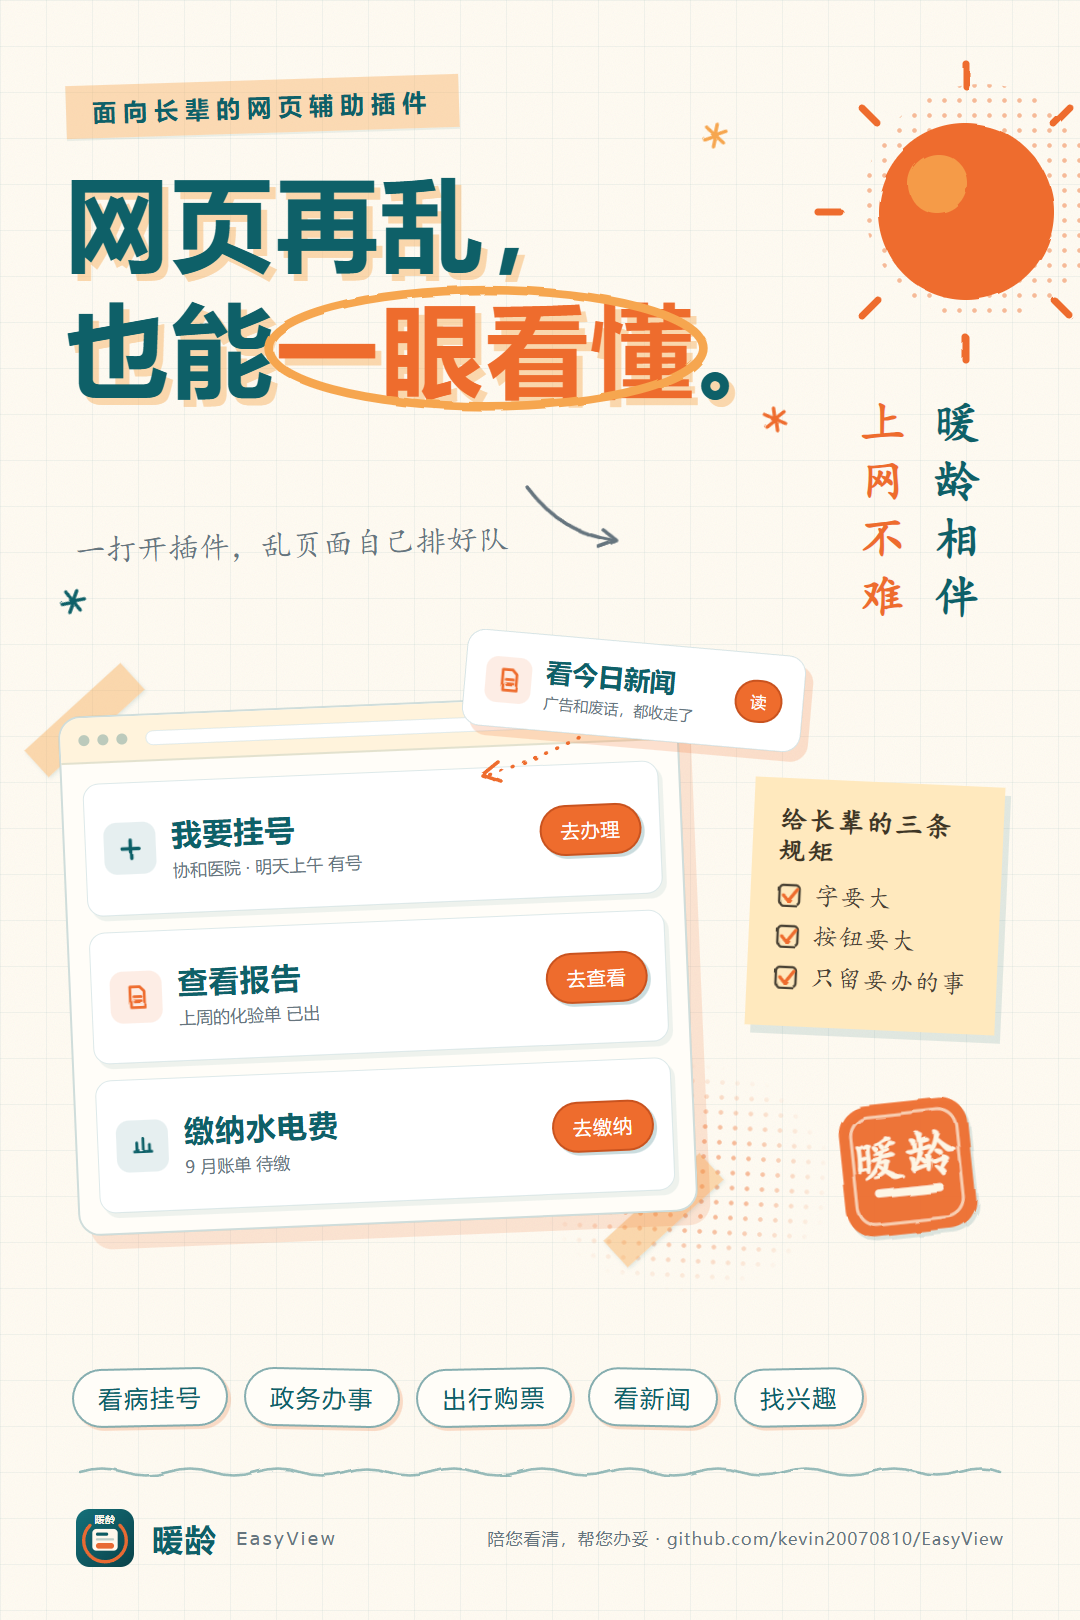
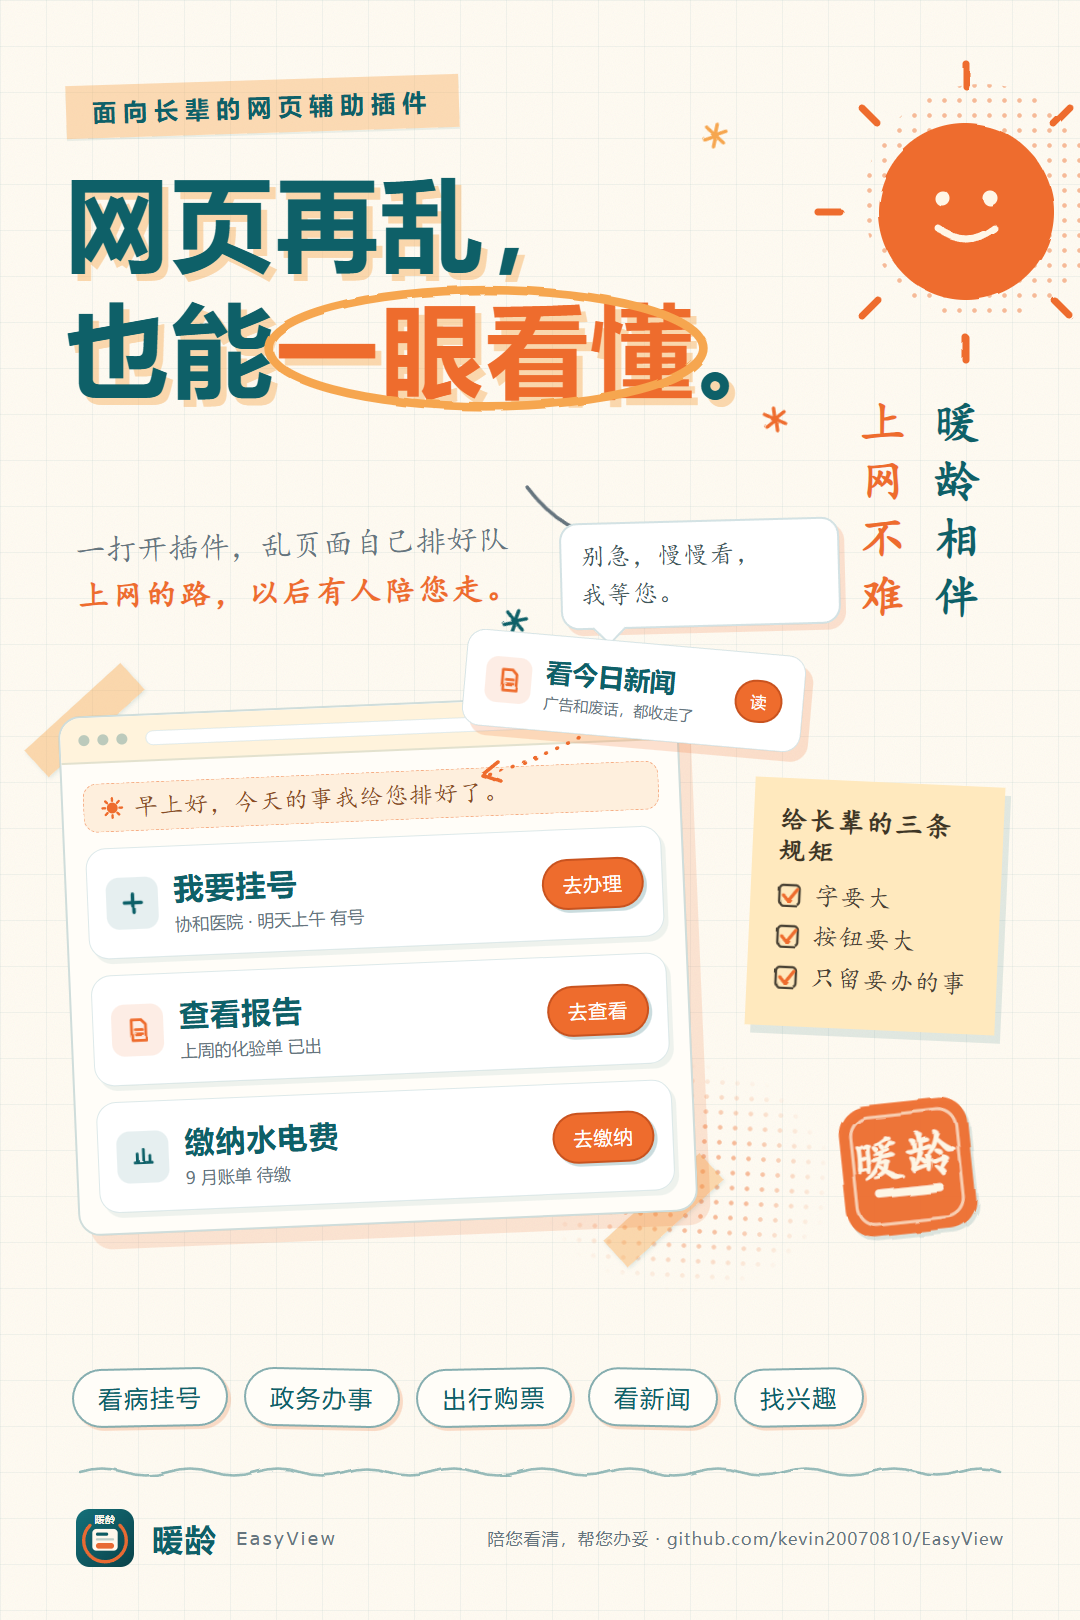
[B] brand v3.1: empathy layer - smiling sun, greeting bar, speech bubble, theme line

diff --git a/brand/src/slide-v3.html b/brand/src/slide-v3.html
@@ -16,6 +16,8 @@ body{font-family:"Microsoft YaHei","Noto Sans SC",sans-serif}
 .kw{position:relative;display:inline-block}
 .kwring{position:absolute;left:-16px;top:-14px;width:calc(100% + 32px);height:calc(100% + 30px);overflow:visible;pointer-events:none}
 .hand{position:absolute;left:116px;top:452px;transform:rotate(-1.6deg);font-family:KaiTi,STKaiti,serif;font-size:31px;color:var(--muted);display:flex;align-items:flex-end;gap:10px}
+.bubble{position:absolute;left:560px;top:520px;width:280px;background:#fff;border:2px solid rgba(14,96,104,.18);border-radius:18px;padding:14px 18px;transform:rotate(-1.5deg);box-shadow:5px 6px 0 rgba(238,108,45,.18);font-family:KaiTi,STKaiti,serif;font-size:25px;line-height:1.5;color:#3E565A;letter-spacing:1px}
+.bubble::after{content:"";position:absolute;left:34px;bottom:-13px;width:22px;height:22px;background:#fff;border-right:2px solid rgba(14,96,104,.18);border-bottom:2px solid rgba(14,96,104,.18);transform:rotate(45deg)}
 .couplet{position:absolute;right:92px;top:352px;writing-mode:vertical-rl;font-family:KaiTi,STKaiti,serif;font-size:46px;letter-spacing:12px;line-height:1.62;color:var(--ink);font-weight:700}
 .couplet em{font-style:normal;color:var(--warm)}
 .stage{position:absolute;left:1000px;top:150px;width:820px;height:640px}
@@ -26,7 +28,9 @@ body{font-family:"Microsoft YaHei","Noto Sans SC",sans-serif}
 .frame .bar i{width:11px;height:11px;border-radius:50%;background:rgba(14,96,104,.28)}
 .frame .bar u{flex:1;height:15px;border-radius:8px;background:#fff;margin-left:10px;text-decoration:none;border:1.5px solid rgba(14,96,104,.12)}
 .frame .body{padding:20px;display:flex;flex-direction:column;gap:16px;height:calc(100% - 46px)}
-.card{background:#fff;border:1.6px solid rgba(14,96,104,.14);border-radius:16px;padding:16px 18px;display:flex;align-items:center;gap:16px;box-shadow:4px 5px 0 rgba(14,96,104,.07);flex:1}
+.frame .hi{background:rgba(246,166,79,.16);border:1.6px dashed rgba(238,108,45,.5);border-radius:14px;padding:10px 16px;font-family:KaiTi,STKaiti,serif;font-size:24px;color:#8A4A22;letter-spacing:1px;display:flex;align-items:center;gap:10px}
+.frame .hi svg{flex:none}
+.card{background:#fff;border:1.6px solid rgba(14,96,104,.14);border-radius:20px;padding:16px 18px;display:flex;align-items:center;gap:16px;box-shadow:4px 5px 0 rgba(14,96,104,.07);flex:1}
 .card .ic{width:52px;height:52px;border-radius:13px;flex:none;display:flex;align-items:center;justify-content:center}
 .card .tx{flex:1}.card .tx b{display:block;font-size:30px;color:var(--ink);letter-spacing:1px}
 .card .tx s{display:block;text-decoration:none;font-size:17px;color:var(--muted);margin-top:5px}
@@ -52,6 +56,7 @@ body{font-family:"Microsoft YaHei","Noto Sans SC",sans-serif}
 .foot b{font-size:31px;color:var(--ink);letter-spacing:2px}
 .foot i{font-family:Verdana,sans-serif;font-style:normal;font-size:18px;color:var(--muted);letter-spacing:2px}
 .foot s{text-decoration:none;margin-left:auto;font-size:17px;color:var(--muted);letter-spacing:1px}
+.bubble{left:620px;top:428px}
 .tagline{position:absolute;left:116px;top:560px;font-family:KaiTi,STKaiti,serif;font-size:36px;letter-spacing:6px;color:var(--warm);font-weight:700}
 .tagline i{font-style:normal;color:rgba(14,96,104,.4);padding:0 12px}
 .wavy{width:1700px}</style></head><body>
@@ -66,14 +71,14 @@ body{font-family:"Microsoft YaHei","Noto Sans SC",sans-serif}
   <svg class="sun" width="320" height="320" viewBox="0 0 320 320" xmlns="http://www.w3.org/2000/svg">
 <circle cx="176" cy="150" r="118" fill="url(#dots)"/>
 <circle cx="160" cy="160" r="88" fill="#EE6C2D" filter="url(#rough2)"/>
-<circle cx="132" cy="132" r="30" fill="#F6A64F" opacity=".8" filter="url(#rough2)"/>
+<g filter="url(#rough)"><circle cx="136" cy="146" r="7.5" fill="#FFF6E6"/><circle cx="184" cy="146" r="7.5" fill="#FFF6E6"/><path d="M132 176 Q160 198 188 176" fill="none" stroke="#FFF6E6" stroke-width="7" stroke-linecap="round"/></g>
 <g stroke="#EE6C2D" stroke-width="7" stroke-linecap="round" filter="url(#rough)">
 <path d="M160 34v-22"/><path d="M248 72l16-16"/><path d="M286 160h24"/><path d="M248 248l16 16"/><path d="M160 286v22"/><path d="M72 248l-16 16"/><path d="M34 160H12"/><path d="M72 72L56 56"/></g></svg>
   <svg class="star" style="left:930px;top:110px;transform:rotate(12deg)" width="30" height="30" viewBox="0 0 30 30"><g stroke="#F6A64F" stroke-width="3.4" stroke-linecap="round" filter="url(#rough)"><path d="M15 4v22M5 9l20 12M25 9L5 21"/></g></svg><svg class="star" style="left:60px;top:620px;transform:rotate(18deg)" width="30" height="30" viewBox="0 0 30 30"><g stroke="#0E6068" stroke-width="3.4" stroke-linecap="round" filter="url(#rough)"><path d="M15 4v22M5 9l20 12M25 9L5 21"/></g></svg><svg class="star" style="left:1755px;top:300px;transform:rotate(-8deg)" width="30" height="30" viewBox="0 0 30 30"><g stroke="#EE6C2D" stroke-width="3.4" stroke-linecap="round" filter="url(#rough)"><path d="M15 4v22M5 9l20 12M25 9L5 21"/></g></svg>
   <div class="tape">面向长辈的网页辅助插件 · 48 小时黑客松</div>
   <div class="h1w"><h1 class="ghost">网页再乱，<br>也能一眼看懂。</h1><h1 class="real">网页再乱，<br>也能<em><span class="kw">一眼看懂<svg class="kwring" viewBox="0 0 420 130" xmlns="http://www.w3.org/2000/svg"><ellipse cx="210" cy="65" rx="202" ry="54" fill="none" stroke="#F6A64F" stroke-width="8" filter="url(#rough)"/></svg></span></em>。</h1></div>
   <div class="hand">一打开插件，乱页面自己排好队<svg width="110" height="74" viewBox="0 0 110 74"><path d="M10 6 C 34 40, 62 56, 96 62" fill="none" stroke="#66757E" stroke-width="3.6" stroke-linecap="round" filter="url(#rough)"/><path d="M84 50 L98 62 L80 68" fill="none" stroke="#66757E" stroke-width="3.6" stroke-linecap="round" stroke-linejoin="round" filter="url(#rough)"/></svg></div>
-  <div class="tagline">暖龄相伴<i>·</i>上网不难<i>·</i>陪您看清，帮您办妥</div>
+  <div class="tagline">暖龄相伴<i>·</i>上网不难<i>·</i>有人陪您走</div>
   <div class="chips"><span>看病挂号</span><span>政务办事</span><span>出行购票</span><span>看新闻</span><span>找兴趣</span></div>
   <div class="stage">
     <svg class="halftone" viewBox="0 0 300 230"><rect width="300" height="230" fill="url(#dots)"/></svg>
@@ -82,7 +87,7 @@ body{font-family:"Microsoft YaHei","Noto Sans SC",sans-serif}
     <div class="tapebit" style="right:-30px;bottom:-16px;transform:rotate(-40deg)"></div>
     <div class="frame">
       <div class="bar"><i></i><i></i><i></i><u></u></div>
-      <div class="body"><div class="card"><div class="ic" style="background:rgba(14,96,104,.10)"><svg width="27" height="27" viewBox="0 0 24 24"><path d="M12 4.4v15.4M4.6 12h15" stroke="#0E6068" stroke-width="3.2" stroke-linecap="round" filter="url(#rough)"/></svg></div><div class="tx"><b>我要挂号</b><s>协和医院 · 明天上午 有号</s></div><div class="go">去办理</div></div><div class="card"><div class="ic" style="background:rgba(238,108,45,.12)"><svg width="27" height="27" viewBox="0 0 24 24"><path d="M6.2 3.2h8.6l4 4v13.6H6.2z M9.4 12h6.6M9.4 15.8h6.6" fill="none" stroke="#EE6C2D" stroke-width="2.5" stroke-linecap="round" stroke-linejoin="round" filter="url(#rough)"/></svg></div><div class="tx"><b>查看报告</b><s>上周的化验单 已出</s></div><div class="go">去查看</div></div><div class="card"><div class="ic" style="background:rgba(14,96,104,.10)"><svg width="27" height="27" viewBox="0 0 24 24"><path d="M4.4 17.4h15.4M6.6 17.4V9.4m5.6 8V5.6m5.6 11.8v-6.2" fill="none" stroke="#0E6068" stroke-width="2.5" stroke-linecap="round" filter="url(#rough)"/></svg></div><div class="tx"><b>缴纳水电费</b><s>9 月账单 待缴</s></div><div class="go">去缴纳</div></div></div>
+      <div class="body"><div class="hi"><svg width="24" height="24" viewBox="0 0 24 24"><circle cx="12" cy="12" r="5.4" fill="#EE6C2D"/><g stroke="#EE6C2D" stroke-width="2.4" stroke-linecap="round"><path d="M12 2.2v2.6M12 19.2v2.6M2.2 12h2.6M19.2 12h2.6M5.2 5.2l1.9 1.9M16.9 16.9l1.9 1.9M18.8 5.2l-1.9 1.9M7.1 16.9l-1.9 1.9"/></g></svg>早上好，今天的事我给您排好了。</div><div class="card"><div class="ic" style="background:rgba(14,96,104,.10)"><svg width="27" height="27" viewBox="0 0 24 24"><path d="M12 4.4v15.4M4.6 12h15" stroke="#0E6068" stroke-width="3.2" stroke-linecap="round" filter="url(#rough)"/></svg></div><div class="tx"><b>我要挂号</b><s>协和医院 · 明天上午 有号</s></div><div class="go">去办理</div></div><div class="card"><div class="ic" style="background:rgba(238,108,45,.12)"><svg width="27" height="27" viewBox="0 0 24 24"><path d="M6.2 3.2h8.6l4 4v13.6H6.2z M9.4 12h6.6M9.4 15.8h6.6" fill="none" stroke="#EE6C2D" stroke-width="2.5" stroke-linecap="round" stroke-linejoin="round" filter="url(#rough)"/></svg></div><div class="tx"><b>查看报告</b><s>上周的化验单 已出</s></div><div class="go">去查看</div></div><div class="card"><div class="ic" style="background:rgba(14,96,104,.10)"><svg width="27" height="27" viewBox="0 0 24 24"><path d="M4.4 17.4h15.4M6.6 17.4V9.4m5.6 8V5.6m5.6 11.8v-6.2" fill="none" stroke="#0E6068" stroke-width="2.5" stroke-linecap="round" filter="url(#rough)"/></svg></div><div class="tx"><b>缴纳水电费</b><s>9 月账单 待缴</s></div><div class="go">去缴纳</div></div></div>
     </div>
     </div>
     
@@ -90,6 +95,7 @@ body{font-family:"Microsoft YaHei","Noto Sans SC",sans-serif}
     <div class="pop"><div class="ic"><svg width="27" height="27" viewBox="0 0 24 24"><path d="M6.2 3.2h8.6l4 4v13.6H6.2z M9.4 12h6.6M9.4 15.8h6.6" fill="none" stroke="#EE6C2D" stroke-width="2.5" stroke-linecap="round" stroke-linejoin="round" filter="url(#rough)"/></svg></div><div><b>看今日新闻</b><s>广告和废话，都收走了</s></div><div class="go">读</div></div>
   </div>
 <div class="sticky"><b>给长辈的三条规矩</b><div class="rows"><div class="row"><svg width="26" height="26" viewBox="0 0 26 26"><rect x="3" y="3" width="20" height="20" rx="4" fill="none" stroke="#4A4234" stroke-width="2.4" filter="url(#rough)"/><path d="M7 13l5 6 9-12" fill="none" stroke="#EE6C2D" stroke-width="3.4" stroke-linecap="round" stroke-linejoin="round" filter="url(#rough)"/></svg>字要大</div><div class="row"><svg width="26" height="26" viewBox="0 0 26 26"><rect x="3" y="3" width="20" height="20" rx="4" fill="none" stroke="#4A4234" stroke-width="2.4" filter="url(#rough)"/><path d="M7 13l5 6 9-12" fill="none" stroke="#EE6C2D" stroke-width="3.4" stroke-linecap="round" stroke-linejoin="round" filter="url(#rough)"/></svg>按钮要大</div><div class="row"><svg width="26" height="26" viewBox="0 0 26 26"><rect x="3" y="3" width="20" height="20" rx="4" fill="none" stroke="#4A4234" stroke-width="2.4" filter="url(#rough)"/><path d="M7 13l5 6 9-12" fill="none" stroke="#EE6C2D" stroke-width="3.4" stroke-linecap="round" stroke-linejoin="round" filter="url(#rough)"/></svg>只留要办的事</div></div></div>
+  <div class="bubble">别急，慢慢看，<br>我等您。</div>
   <div class="couplet">暖龄相伴<br><em>上网不难</em></div>
   <div class="seal"><svg viewBox="0 0 128 128" width="140" height="140" style="transform:rotate(-6deg)" xmlns="http://www.w3.org/2000/svg">
 <g filter="url(#rough2)" opacity=".94">

diff --git a/brand/src/poster-v3.html b/brand/src/poster-v3.html
@@ -15,6 +15,9 @@ body{background:#E8E2D6;font-family:"Microsoft YaHei","Noto Sans SC",sans-serif}
 .kw{position:relative;display:inline-block}
 .kwring{position:absolute;left:-16px;top:-14px;width:calc(100% + 32px);height:calc(100% + 30px);overflow:visible;pointer-events:none}
 .hand{position:absolute;left:74px;top:486px;transform:rotate(-1.6deg);font-family:KaiTi,STKaiti,serif;font-size:31px;color:var(--muted);display:flex;align-items:flex-end;gap:10px}
+.hand2{position:absolute;left:78px;top:574px;font-family:KaiTi,STKaiti,serif;font-size:31px;color:var(--warm);letter-spacing:3px;font-weight:700;transform:rotate(-1deg)}
+.bubble{position:absolute;left:560px;top:520px;width:280px;background:#fff;border:2px solid rgba(14,96,104,.18);border-radius:18px;padding:14px 18px;transform:rotate(-1.5deg);box-shadow:5px 6px 0 rgba(238,108,45,.18);font-family:KaiTi,STKaiti,serif;font-size:25px;line-height:1.5;color:#3E565A;letter-spacing:1px}
+.bubble::after{content:"";position:absolute;left:34px;bottom:-13px;width:22px;height:22px;background:#fff;border-right:2px solid rgba(14,96,104,.18);border-bottom:2px solid rgba(14,96,104,.18);transform:rotate(45deg)}
 .couplet{position:absolute;right:86px;top:398px;writing-mode:vertical-rl;font-family:KaiTi,STKaiti,serif;font-size:46px;letter-spacing:12px;line-height:1.62;color:var(--ink);font-weight:700}
 .couplet em{font-style:normal;color:var(--warm)}
 .stage{position:absolute;left:44px;top:648px;width:760px;height:620px}
@@ -25,7 +28,9 @@ body{background:#E8E2D6;font-family:"Microsoft YaHei","Noto Sans SC",sans-serif}
 .frame .bar i{width:11px;height:11px;border-radius:50%;background:rgba(14,96,104,.28)}
 .frame .bar u{flex:1;height:15px;border-radius:8px;background:#fff;margin-left:10px;text-decoration:none;border:1.5px solid rgba(14,96,104,.12)}
 .frame .body{padding:20px;display:flex;flex-direction:column;gap:16px;height:calc(100% - 46px)}
-.card{background:#fff;border:1.6px solid rgba(14,96,104,.14);border-radius:16px;padding:16px 18px;display:flex;align-items:center;gap:16px;box-shadow:4px 5px 0 rgba(14,96,104,.07);flex:1}
+.frame .hi{background:rgba(246,166,79,.16);border:1.6px dashed rgba(238,108,45,.5);border-radius:14px;padding:10px 16px;font-family:KaiTi,STKaiti,serif;font-size:24px;color:#8A4A22;letter-spacing:1px;display:flex;align-items:center;gap:10px}
+.frame .hi svg{flex:none}
+.card{background:#fff;border:1.6px solid rgba(14,96,104,.14);border-radius:20px;padding:16px 18px;display:flex;align-items:center;gap:16px;box-shadow:4px 5px 0 rgba(14,96,104,.07);flex:1}
 .card .ic{width:52px;height:52px;border-radius:13px;flex:none;display:flex;align-items:center;justify-content:center}
 .card .tx{flex:1}.card .tx b{display:block;font-size:30px;color:var(--ink);letter-spacing:1px}
 .card .tx s{display:block;text-decoration:none;font-size:17px;color:var(--muted);margin-top:5px}
@@ -60,13 +65,15 @@ body{background:#E8E2D6;font-family:"Microsoft YaHei","Noto Sans SC",sans-serif}
   <svg class="sun" width="320" height="320" viewBox="0 0 320 320" xmlns="http://www.w3.org/2000/svg">
 <circle cx="176" cy="150" r="118" fill="url(#dots)"/>
 <circle cx="160" cy="160" r="88" fill="#EE6C2D" filter="url(#rough2)"/>
-<circle cx="132" cy="132" r="30" fill="#F6A64F" opacity=".8" filter="url(#rough2)"/>
+<g filter="url(#rough)"><circle cx="136" cy="146" r="7.5" fill="#FFF6E6"/><circle cx="184" cy="146" r="7.5" fill="#FFF6E6"/><path d="M132 176 Q160 198 188 176" fill="none" stroke="#FFF6E6" stroke-width="7" stroke-linecap="round"/></g>
 <g stroke="#EE6C2D" stroke-width="7" stroke-linecap="round" filter="url(#rough)">
 <path d="M160 34v-22"/><path d="M248 72l16-16"/><path d="M286 160h24"/><path d="M248 248l16 16"/><path d="M160 286v22"/><path d="M72 248l-16 16"/><path d="M34 160H12"/><path d="M72 72L56 56"/></g></svg>
-  <svg class="star" style="left:700px;top:120px;transform:rotate(12deg)" width="30" height="30" viewBox="0 0 30 30"><g stroke="#F6A64F" stroke-width="3.4" stroke-linecap="round" filter="url(#rough)"><path d="M15 4v22M5 9l20 12M25 9L5 21"/></g></svg><svg class="star" style="left:760px;top:404px;transform:rotate(-8deg)" width="30" height="30" viewBox="0 0 30 30"><g stroke="#EE6C2D" stroke-width="3.4" stroke-linecap="round" filter="url(#rough)"><path d="M15 4v22M5 9l20 12M25 9L5 21"/></g></svg><svg class="star" style="left:58px;top:586px;transform:rotate(20deg)" width="30" height="30" viewBox="0 0 30 30"><g stroke="#0E6068" stroke-width="3.4" stroke-linecap="round" filter="url(#rough)"><path d="M15 4v22M5 9l20 12M25 9L5 21"/></g></svg>
+  <svg class="star" style="left:700px;top:120px;transform:rotate(12deg)" width="30" height="30" viewBox="0 0 30 30"><g stroke="#F6A64F" stroke-width="3.4" stroke-linecap="round" filter="url(#rough)"><path d="M15 4v22M5 9l20 12M25 9L5 21"/></g></svg><svg class="star" style="left:760px;top:404px;transform:rotate(-8deg)" width="30" height="30" viewBox="0 0 30 30"><g stroke="#EE6C2D" stroke-width="3.4" stroke-linecap="round" filter="url(#rough)"><path d="M15 4v22M5 9l20 12M25 9L5 21"/></g></svg><svg class="star" style="left:500px;top:606px;transform:rotate(20deg)" width="30" height="30" viewBox="0 0 30 30"><g stroke="#0E6068" stroke-width="3.4" stroke-linecap="round" filter="url(#rough)"><path d="M15 4v22M5 9l20 12M25 9L5 21"/></g></svg>
   <div class="tape">面向长辈的网页辅助插件</div>
   <div class="h1w"><h1 class="ghost">网页再乱，<br>也能一眼看懂。</h1><h1 class="real">网页再乱，<br>也能<em><span class="kw">一眼看懂<svg class="kwring" viewBox="0 0 420 130" xmlns="http://www.w3.org/2000/svg"><ellipse cx="210" cy="65" rx="202" ry="54" fill="none" stroke="#F6A64F" stroke-width="8" filter="url(#rough)"/></svg></span></em>。</h1></div>
   <div class="hand">一打开插件，乱页面自己排好队<svg width="110" height="74" viewBox="0 0 110 74"><path d="M10 6 C 34 40, 62 56, 96 62" fill="none" stroke="#66757E" stroke-width="3.6" stroke-linecap="round" filter="url(#rough)"/><path d="M84 50 L98 62 L80 68" fill="none" stroke="#66757E" stroke-width="3.6" stroke-linecap="round" stroke-linejoin="round" filter="url(#rough)"/></svg></div>
+  <div class="hand2">上网的路，以后有人陪您走。</div>
+  <div class="bubble">别急，慢慢看，<br>我等您。</div>
   <div class="couplet">暖龄相伴<br><em>上网不难</em></div>
   <div class="stage">
     <svg class="halftone" viewBox="0 0 300 230"><rect width="300" height="230" fill="url(#dots)"/></svg>
@@ -75,7 +82,7 @@ body{background:#E8E2D6;font-family:"Microsoft YaHei","Noto Sans SC",sans-serif}
     <div class="tapebit" style="right:-30px;bottom:-16px;transform:rotate(-40deg)"></div>
     <div class="frame">
       <div class="bar"><i></i><i></i><i></i><u></u></div>
-      <div class="body"><div class="card"><div class="ic" style="background:rgba(14,96,104,.10)"><svg width="27" height="27" viewBox="0 0 24 24"><path d="M12 4.4v15.4M4.6 12h15" stroke="#0E6068" stroke-width="3.2" stroke-linecap="round" filter="url(#rough)"/></svg></div><div class="tx"><b>我要挂号</b><s>协和医院 · 明天上午 有号</s></div><div class="go">去办理</div></div><div class="card"><div class="ic" style="background:rgba(238,108,45,.12)"><svg width="27" height="27" viewBox="0 0 24 24"><path d="M6.2 3.2h8.6l4 4v13.6H6.2z M9.4 12h6.6M9.4 15.8h6.6" fill="none" stroke="#EE6C2D" stroke-width="2.5" stroke-linecap="round" stroke-linejoin="round" filter="url(#rough)"/></svg></div><div class="tx"><b>查看报告</b><s>上周的化验单 已出</s></div><div class="go">去查看</div></div><div class="card"><div class="ic" style="background:rgba(14,96,104,.10)"><svg width="27" height="27" viewBox="0 0 24 24"><path d="M4.4 17.4h15.4M6.6 17.4V9.4m5.6 8V5.6m5.6 11.8v-6.2" fill="none" stroke="#0E6068" stroke-width="2.5" stroke-linecap="round" filter="url(#rough)"/></svg></div><div class="tx"><b>缴纳水电费</b><s>9 月账单 待缴</s></div><div class="go">去缴纳</div></div></div>
+      <div class="body"><div class="hi"><svg width="24" height="24" viewBox="0 0 24 24"><circle cx="12" cy="12" r="5.4" fill="#EE6C2D"/><g stroke="#EE6C2D" stroke-width="2.4" stroke-linecap="round"><path d="M12 2.2v2.6M12 19.2v2.6M2.2 12h2.6M19.2 12h2.6M5.2 5.2l1.9 1.9M16.9 16.9l1.9 1.9M18.8 5.2l-1.9 1.9M7.1 16.9l-1.9 1.9"/></g></svg>早上好，今天的事我给您排好了。</div><div class="card"><div class="ic" style="background:rgba(14,96,104,.10)"><svg width="27" height="27" viewBox="0 0 24 24"><path d="M12 4.4v15.4M4.6 12h15" stroke="#0E6068" stroke-width="3.2" stroke-linecap="round" filter="url(#rough)"/></svg></div><div class="tx"><b>我要挂号</b><s>协和医院 · 明天上午 有号</s></div><div class="go">去办理</div></div><div class="card"><div class="ic" style="background:rgba(238,108,45,.12)"><svg width="27" height="27" viewBox="0 0 24 24"><path d="M6.2 3.2h8.6l4 4v13.6H6.2z M9.4 12h6.6M9.4 15.8h6.6" fill="none" stroke="#EE6C2D" stroke-width="2.5" stroke-linecap="round" stroke-linejoin="round" filter="url(#rough)"/></svg></div><div class="tx"><b>查看报告</b><s>上周的化验单 已出</s></div><div class="go">去查看</div></div><div class="card"><div class="ic" style="background:rgba(14,96,104,.10)"><svg width="27" height="27" viewBox="0 0 24 24"><path d="M4.4 17.4h15.4M6.6 17.4V9.4m5.6 8V5.6m5.6 11.8v-6.2" fill="none" stroke="#0E6068" stroke-width="2.5" stroke-linecap="round" filter="url(#rough)"/></svg></div><div class="tx"><b>缴纳水电费</b><s>9 月账单 待缴</s></div><div class="go">去缴纳</div></div></div>
     </div>
     </div>
     <svg class="trail" width="150" height="90" viewBox="0 0 150 90"><path d="M138 14 C 104 34, 66 50, 18 66" fill="none" stroke="#EE6C2D" stroke-width="3.6" stroke-linecap="round" stroke-dasharray="1 11" filter="url(#rough)"/><path d="M36 50 L20 63 L40 70" fill="none" stroke="#EE6C2D" stroke-width="3.6" stroke-linecap="round" stroke-linejoin="round" filter="url(#rough)"/></svg>

diff --git a/brand/BRAND.md b/brand/BRAND.md
@@ -54,6 +54,8 @@ v2 深色版反馈「偏暗、AI 味重」，v3 改为**手写纸感亮色**：
 - 层次元素：和纸胶带标签、手绘太阳 + 半调网点、关键词手绘圈、倾斜浏览器框 + 角上胶带、弹出小卡 + 虚线引线、便签「给长辈的三条规矩」、橙色印章落款、波浪线分隔
 - 阴影一律**纯色偏移**（如 12px 14px 0 暖橙 16%），不用发光和模糊渐变
 - 主标题：深青 100px 级；关键词「一眼看懂」暖橙 + 手绘椭圆圈
+- 共情四件套（v3.1）：①太阳带温和笑脸（亲和力 mascot）；②浏览器内问候条「早上好，今天的事我给您排好了。」（产品语气示范）；③手写语气泡「别急，慢慢看，我等您。」；④主题句「上网的路，以后有人陪您走。」楷体暖橙
+- 产品界面语气沿用同一套：问候 + 动宾短语 + 不急不催
 - 成品：`out/poster-v3.png`（1080×1620）、`out/slide-v3.png`（1920×1080 路演页）
 - 源文件：`src/poster-v3.html`、`src/slide-v3.html`（共用同一套 CSS 语言）
 - 深色 v2（`poster-v2.png` / `slide-v2.png`）保留为暗场投影 / 夜间备选
